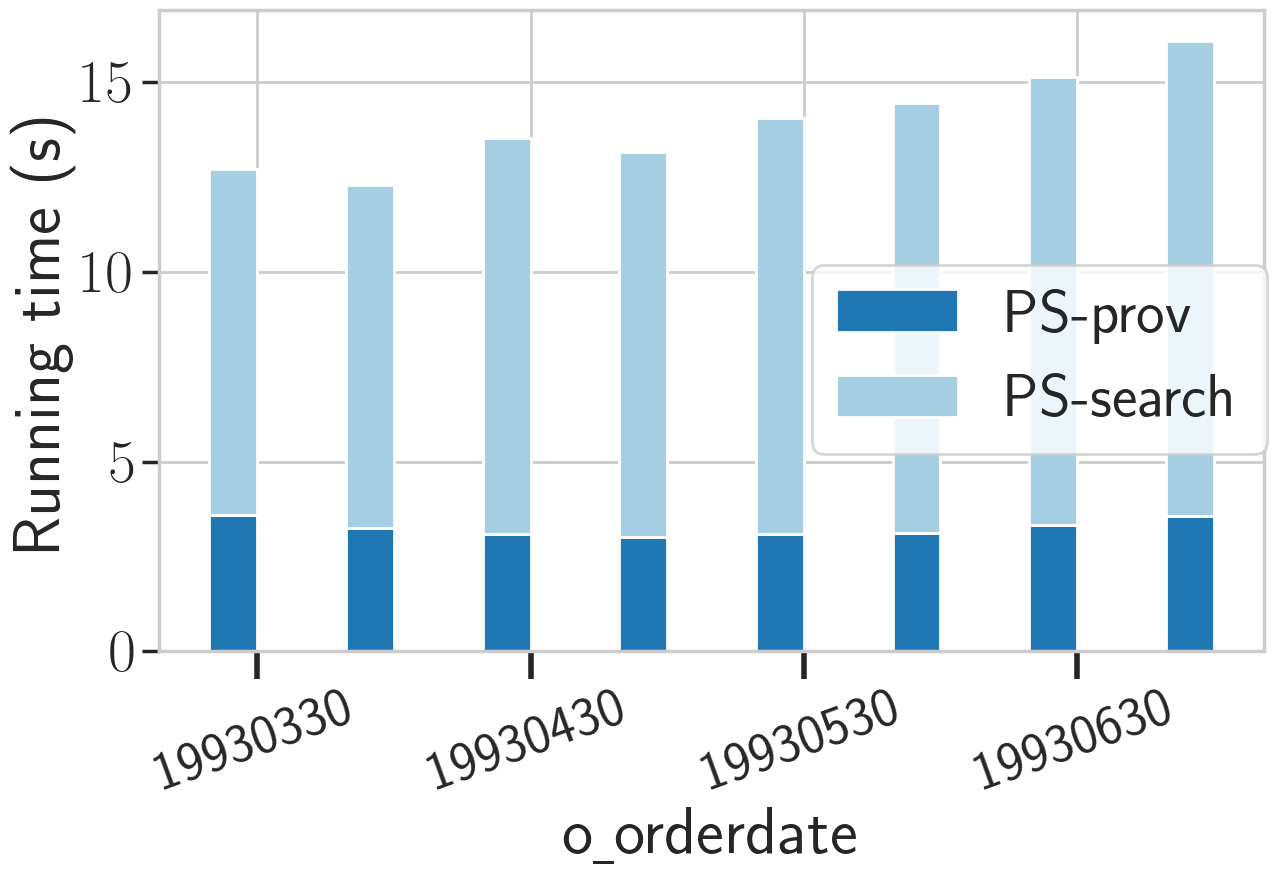
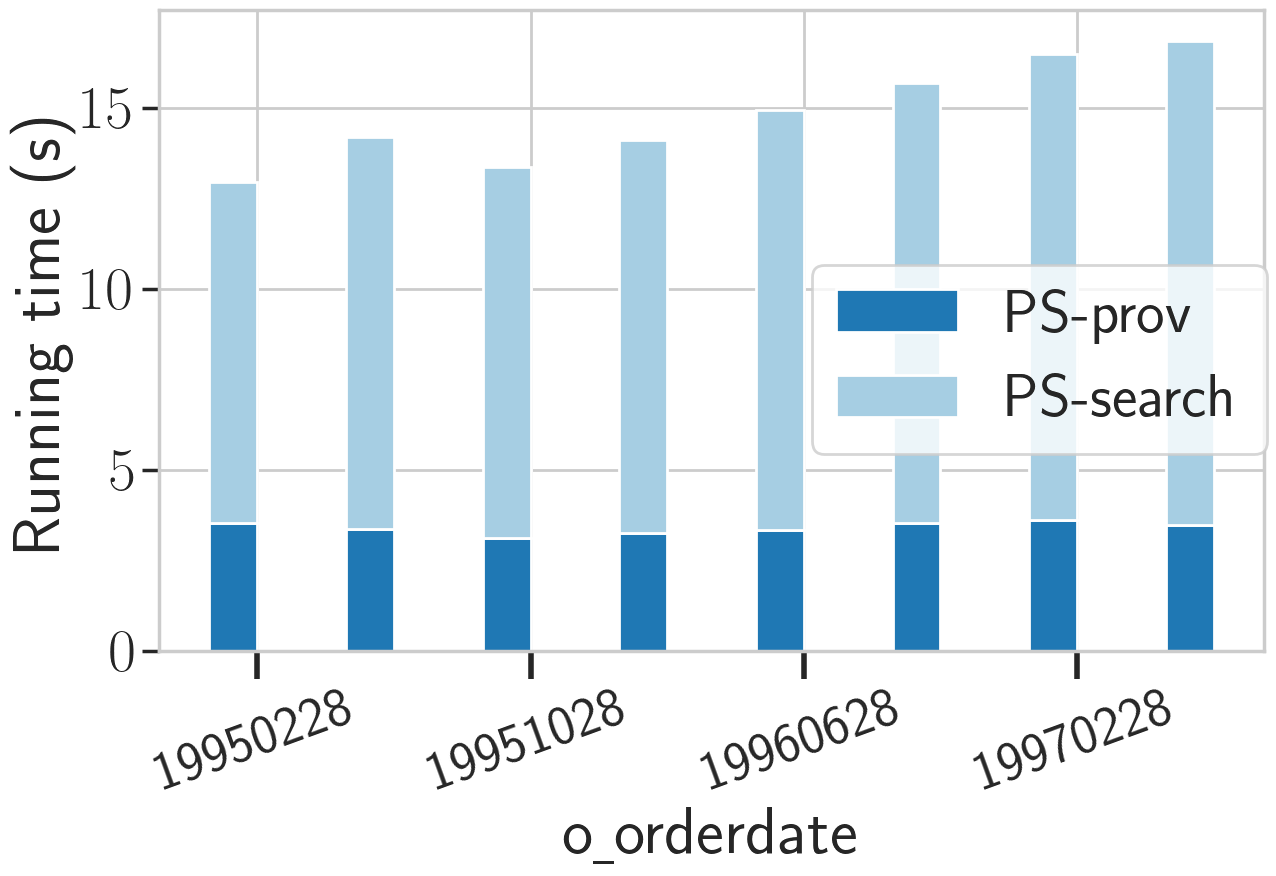
100M q3 refine query selectivity

diff --git a/Experiment/TPCH/100M/query_selectivity/q3_refine/fig.py b/Experiment/TPCH/100M/query_selectivity/q3_refine/fig.py
@@ -59,7 +59,7 @@ def run(query, size, constraint):
             execution_timebl1.append(0)
             execution_timebl2.append(0)
     # x_list = [19941230, 19950115, 19950130, 19950215, 19950230, 19950315, 19950330, 19950415]
-    x_list = [19930330, 19930430, 19930530, 19930630]
+    x_list = [19950228, 19951028, 19960628, 19970228]
 
     print(x_list, execution_timeps1, execution_timeps2)
 
